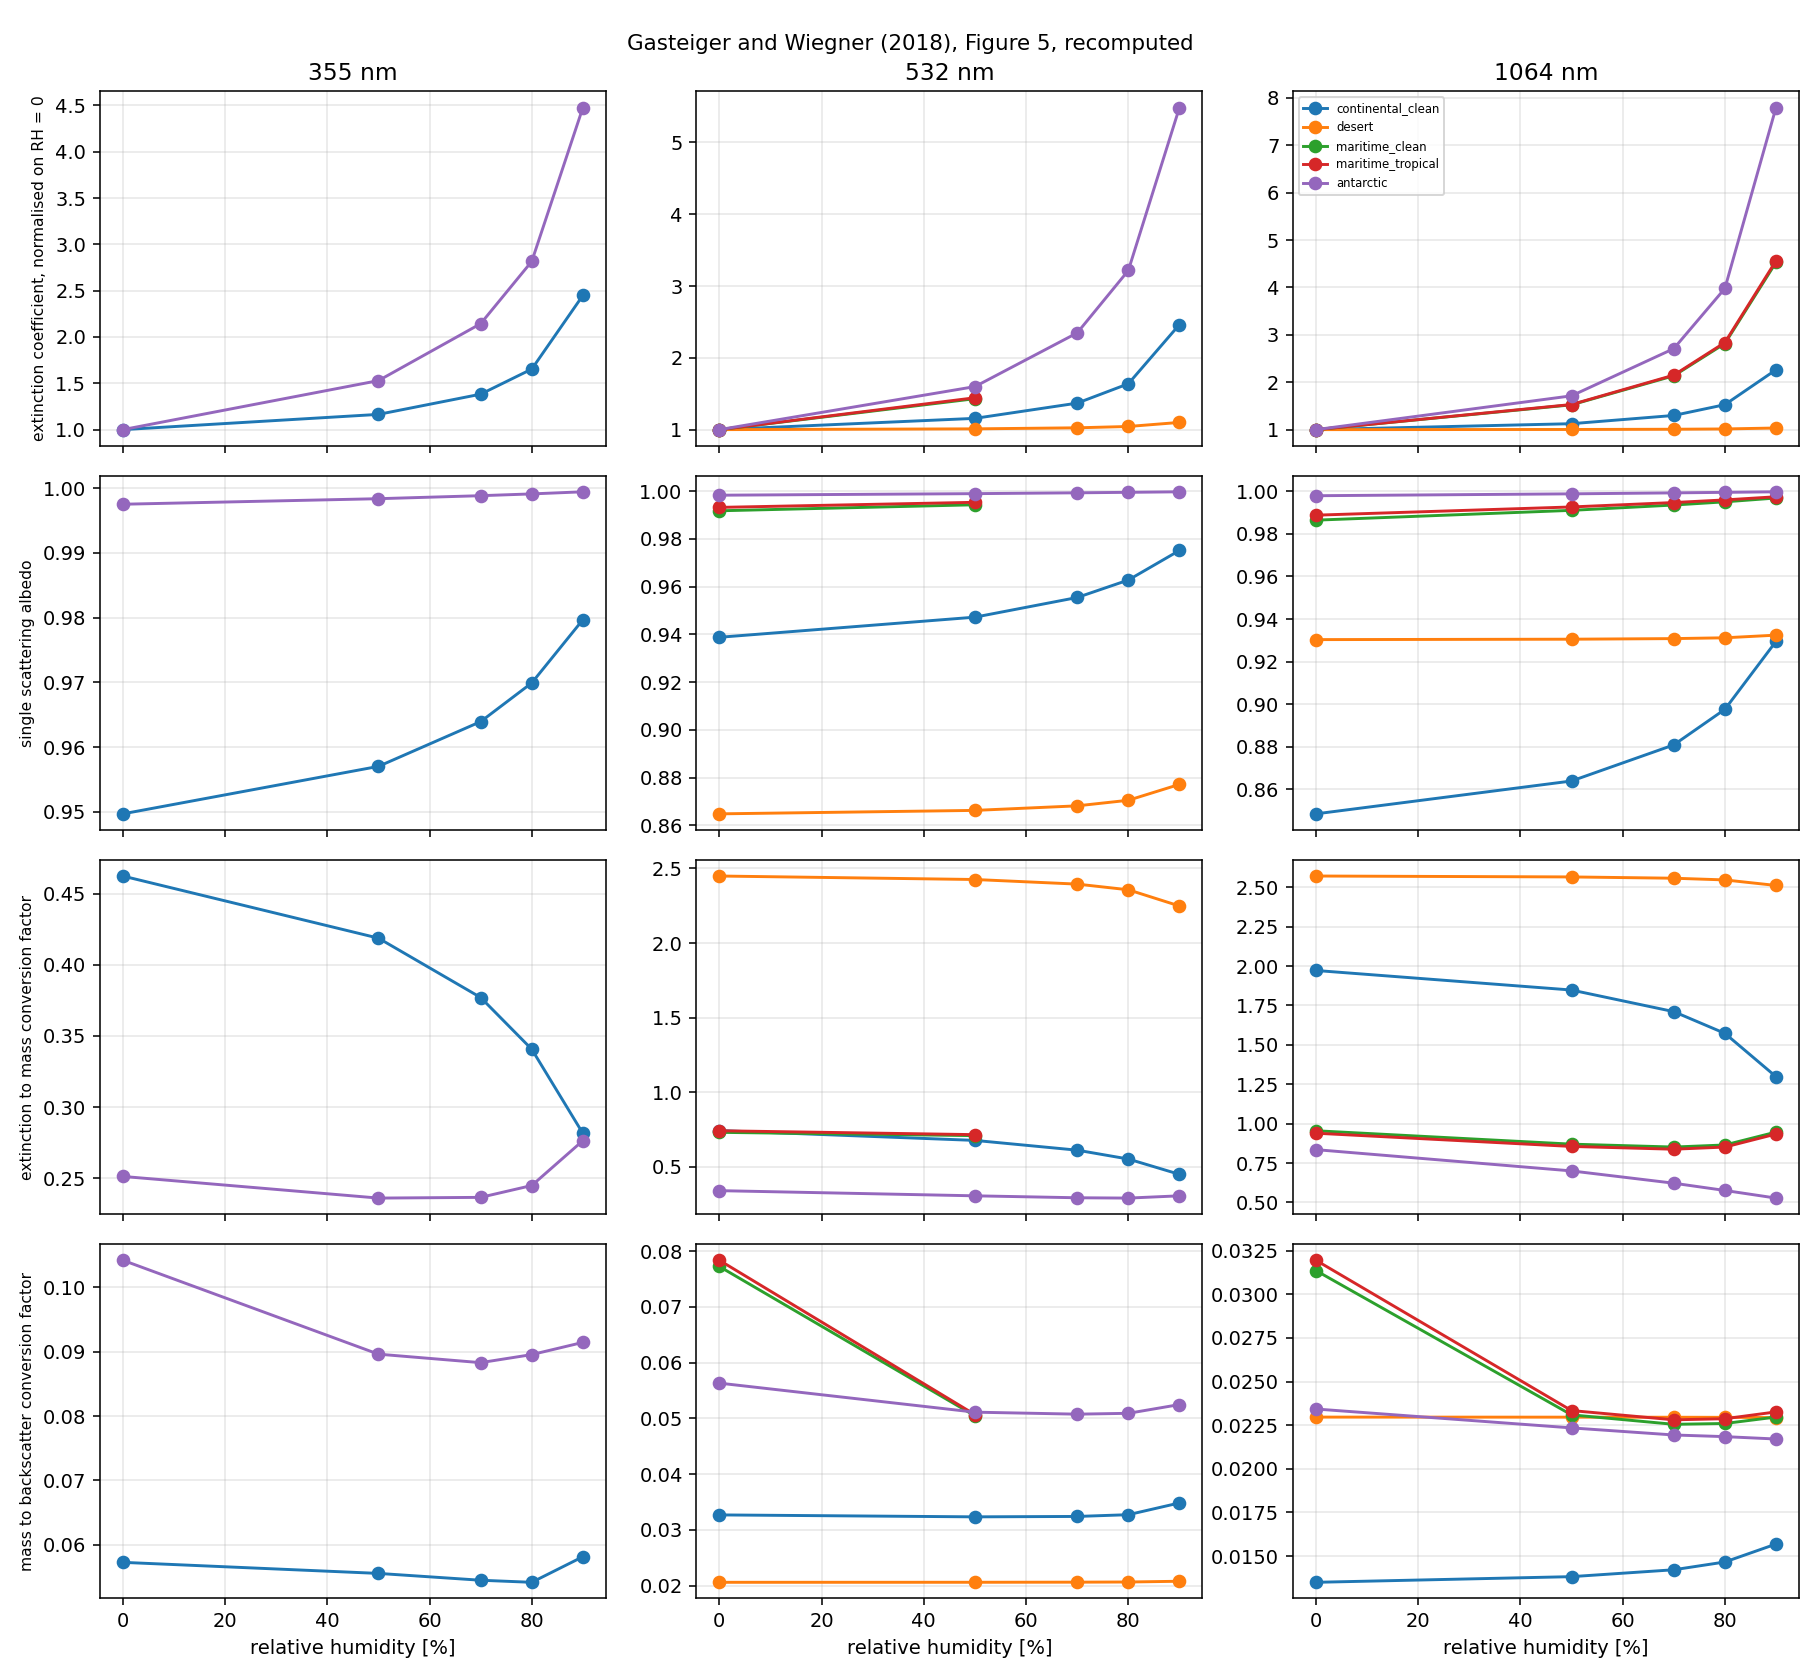
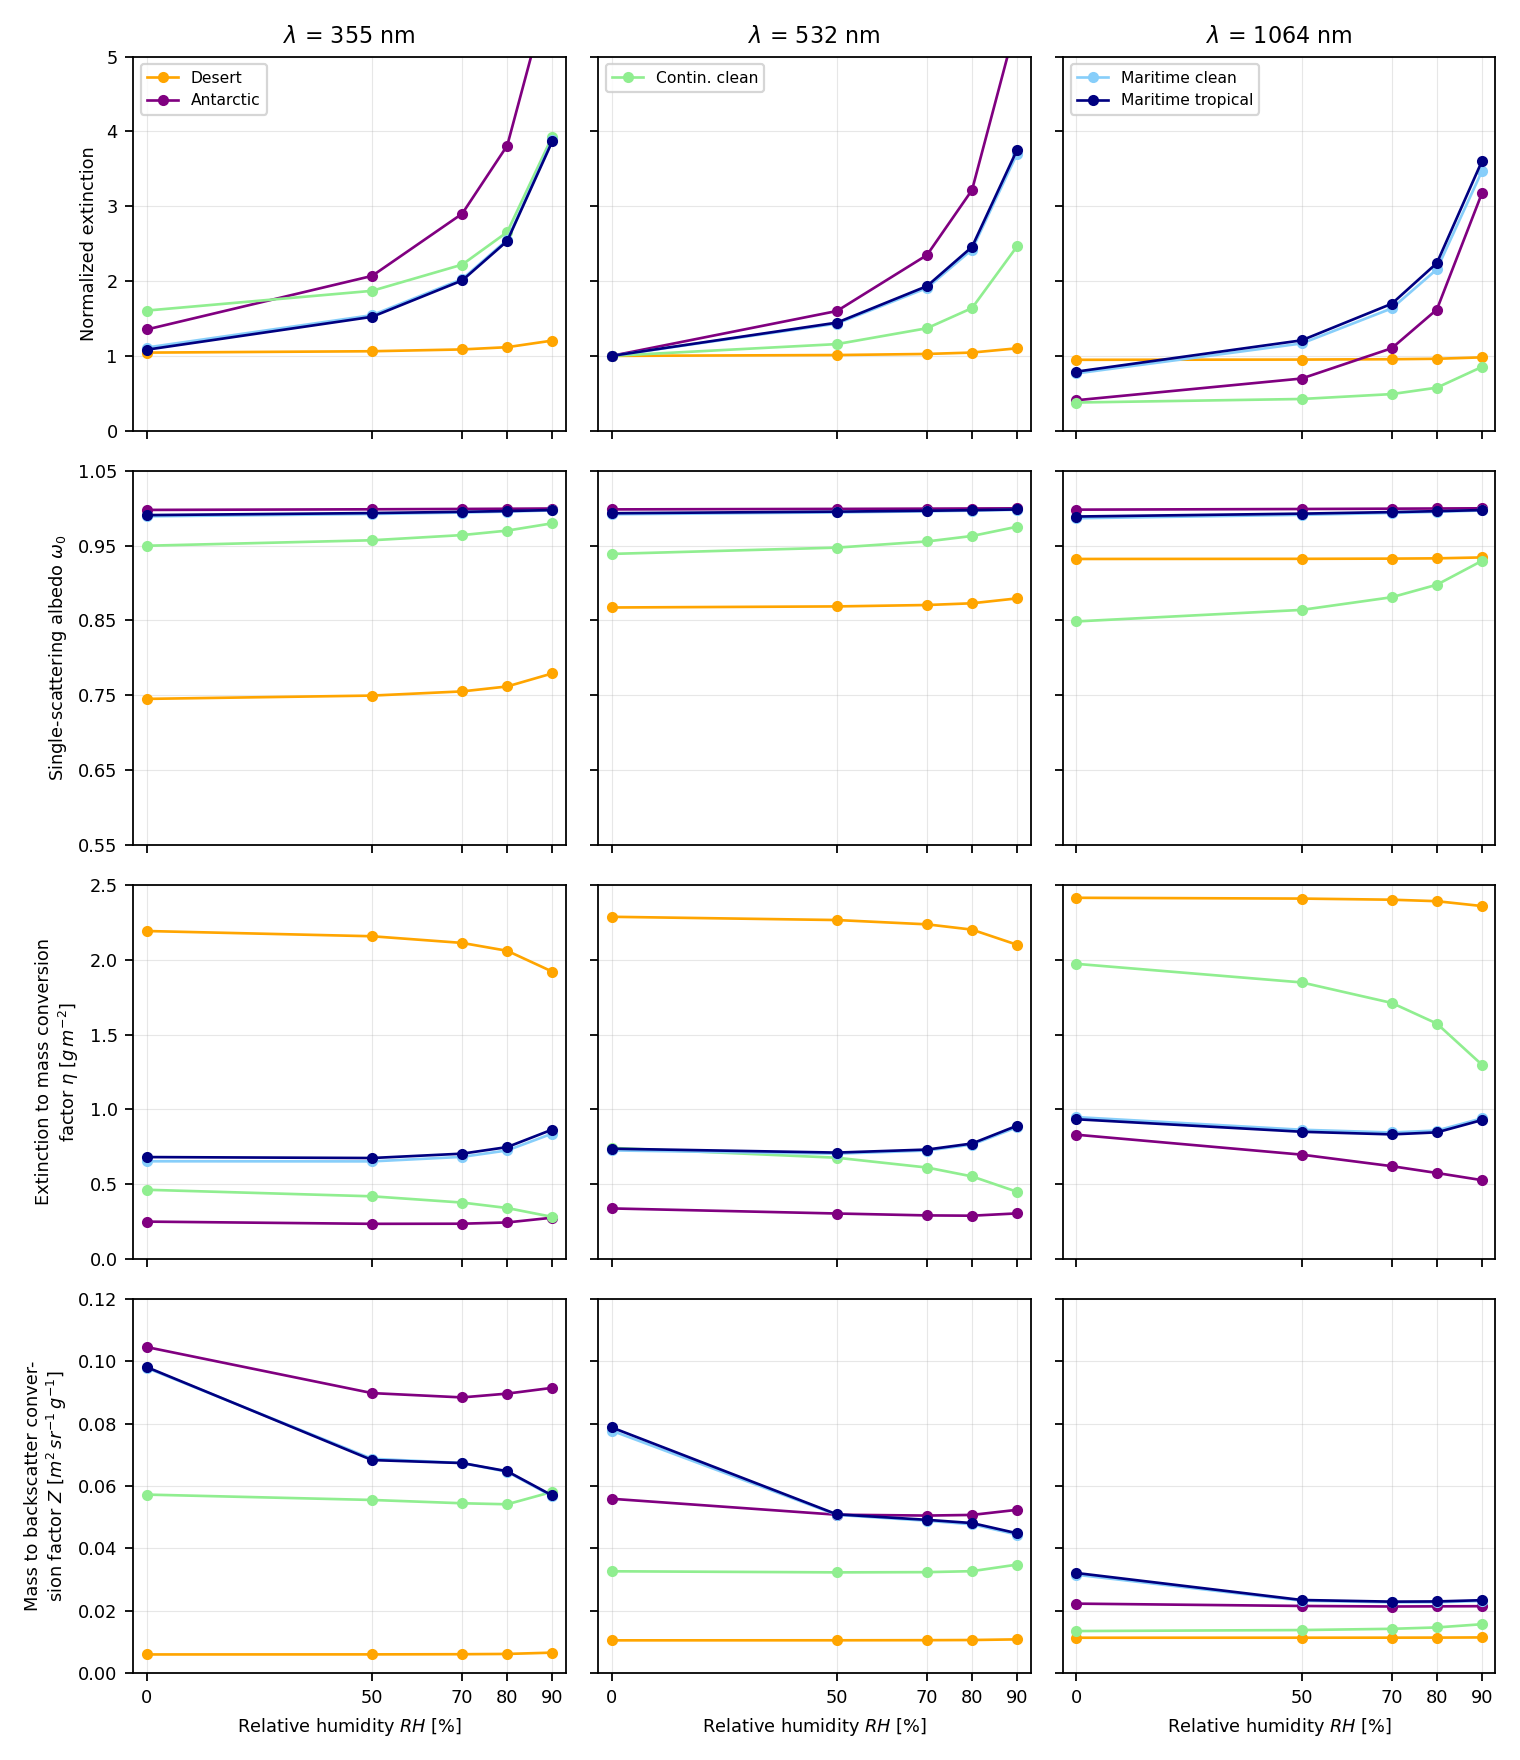
feat: draw Figure 5 in the layout of the published one
Same panel grid, axis limits, ticks and colours, the legend split over the top
row as the article splits it. The extinction was also normalised per
wavelength where the article normalises every column on 532 nm.

diff --git a/scripts/validation/gasteiger_fig5.py b/scripts/validation/gasteiger_fig5.py
@@ -1,30 +1,29 @@
 """
 Reproduce Figure 5 of Gasteiger and Wiegner (2018), GMD 11:2739.
 
-    pixi run -e dev python -m scripts.validation.gasteiger_fig5
+    PYMOPSMAP_DATASET_SOURCE=... \
+        pixi run -e dev python -m scripts.validation.gasteiger_fig5
 
 "Properties of OPAC aerosol types as a function of relative humidity RH
 calculated with the kappa parameterization (Zieger et al., 2013) implemented in
 MOPSMAP": the ten OPAC climatologies, at three lidar wavelengths, over five
-humidities, in four panels.
+humidities, in four rows.
 
-The figure is a validation target rather than a plot: what matters is whether
-the pipeline lands on the published curves. Types whose components fall outside
-the optical dataset at hand are reported and skipped, so a partial dataset
-still produces a partial figure.
+The layout follows the published one so the two can be laid side by side: same
+panel grid, same axis limits and ticks, same colour per type, and the legend
+split over the three panels of the top row the way the article splits it.
 
 Two gaps are structural rather than accidental, and the report names them:
 
-- the five types containing soot need the extended archive of the optical
-  data set, soot reaching a real refractive index of 1.75;
+- the five types containing soot need the extended archive of the optical data
+  set, soot reaching a real refractive index of 1.75;
 - the sea salt coarse mode of OPAC runs to rmax = 60 um, which the growth
   factor at RH >= 70 % pushes past the largest size parameter the data set
-  covers. MOPSMAP itself stops there (add_contribution.f90, "Maximum
-  specified particle size ... is not covered"), so those points are NaN.
+  covers. MOPSMAP itself stops there (add_contribution.f90, "Maximum specified
+  particle size ... is not covered"), so those points are NaN.
 
-The article plots them, which means its own runs used a smaller cutoff than
-the OPAC value. It does not say which, so they are left out rather than
-guessed at.
+The article plots them, which means its own runs used a smaller cutoff than the
+OPAC value. It does not say which, so they are left out rather than guessed at.
 """
 
 from __future__ import annotations
@@ -43,16 +42,47 @@ FIGURES = Path(__file__).resolve().parents[2] / "docs" / "figures"
 WAVELENGTHS_UM = [0.355, 0.532, 1.064]
 HUMIDITIES = [0.0, 50.0, 70.0, 80.0, 90.0]
 
-# The four rows of the figure. The extinction is shown normalised on its dry
-# value, which is what makes the ten types comparable on one panel.
-PANELS = {
-    "kext": "extinction coefficient, normalised on RH = 0",
-    "ssa": "single scattering albedo",
-    "ext_to_mass": "extinction to mass conversion factor",
-    "back_to_mass": "mass to backscatter conversion factor",
-}
+# The wavelength every extinction coefficient is normalised on: "the extinction
+# coefficient normalized to the extinction coefficient of the same aerosol type
+# at RH = 0 % and lambda = 532 nm". One reference for all three columns, which
+# is why the 1064 nm panel does not start at one.
+REFERENCE_WL_UM = 0.532
 
 OUTPUTS = frozenset({pm.OutputType.INTEGRATED, pm.OutputType.LIDAR})
+
+# The four rows: variable, axis label, limits, tick step.
+ROWS = [
+    ("kext", "Normalized extinction", (0.0, 5.0), 1.0),
+    ("ssa", "Single-scattering albedo $\\omega_0$", (0.55, 1.005), 0.1),
+    (
+        "ext_to_mass",
+        "Extinction to mass conversion\nfactor $\\eta$ [$g\\,m^{-2}$]",
+        (0.0, 2.5),
+        0.5,
+    ),
+    (
+        "back_to_mass",
+        "Mass to backscatter conver-\nsion factor $Z$"
+        " [$m^2\\,sr^{-1}\\,g^{-1}$]",
+        (0.0, 0.12),
+        0.02,
+    ),
+]
+
+# The colours of the published legend, and which top-row panel carries each
+# group of entries.
+TYPES = {
+    "urban": ("Urban", "black", 0),
+    "desert": ("Desert", "orange", 0),
+    "arctic": ("Arctic", "gold", 0),
+    "antarctic": ("Antarctic", "purple", 0),
+    "continental_clean": ("Contin. clean", "lightgreen", 1),
+    "continental_average": ("Contin. average", "forestgreen", 1),
+    "continental_polluted": ("Contin. polluted", "darkgreen", 1),
+    "maritime_clean": ("Maritime clean", "lightskyblue", 2),
+    "maritime_polluted": ("Maritime polluted", "blue", 2),
+    "maritime_tropical": ("Maritime tropical", "navy", 2),
+}
 
 
 def compute() -> xr.Dataset:
@@ -62,8 +92,8 @@ def compute() -> xr.Dataset:
     Returns
     -------
     xr.Dataset
-        Dimensions ``(type, rh, wl)``, with one variable per panel. Types the
-        dataset cannot cover are absent.
+        Dimensions ``(type, rh, wl)``, with one variable per row. Types the
+        data set cannot cover are absent.
     """
     per_type: dict[str, xr.Dataset] = {}
     for name in OPAC_COMPOSITIONS:
@@ -77,7 +107,7 @@ def compute() -> xr.Dataset:
         except (CoverageError, DomainError) as exc:
             print(f"  {name}: skipped, {exc}")
             continue
-        per_type[name] = _panels(result)
+        per_type[name] = _rows(result)
         print(f"  {name}: done")
 
     if not per_type:
@@ -90,16 +120,19 @@ def compute() -> xr.Dataset:
     )
 
 
-def _panels(result: xr.Dataset) -> xr.Dataset:
-    """Keep the four plotted quantities, extinction normalised on dry."""
-    panels = result[list(PANELS)]
-    return panels.assign(kext=panels["kext"] / panels["kext"].sel(rh=0.0))
+def _rows(result: xr.Dataset) -> xr.Dataset:
+    """Keep the four plotted quantities, extinction normalised."""
+    rows = result[[name for name, *_ in ROWS]]
+    reference = (
+        rows["kext"].sel(rh=0.0).sel(wl=REFERENCE_WL_UM, method="nearest")
+    )
+    return rows.assign(kext=rows["kext"] / reference)
 
 
 def report(data: xr.Dataset) -> None:
-    """Print the computed values, one block per panel."""
-    for name, label in PANELS.items():
-        print(f"\n=== {label} ===")
+    """Print the computed values, one block per row."""
+    for name, label, *_ in ROWS:
+        print(f"\n=== {label.replace(chr(10), ' ')}, at 532 nm ===")
         table = data[name].sel(wl=0.532, method="nearest").to_pandas()
         print(table.round(4).to_string())
     _check_statements(data)
@@ -118,9 +151,8 @@ def _check_statements(data: xr.Dataset) -> None:
     print(f"highest eta at RH = 0: {highest} ({float(eta.max()):.3f})")
     print("  article: 'the desert aerosol type ... shows the highest values'")
 
-    ssa = data["ssa"].sel(wl=0.532, method="nearest")
     if "desert" in data["type"]:
-        span = ssa.sel(type="desert")
+        span = data["ssa"].sel(wl=0.532, method="nearest").sel(type="desert")
         print(
             f"desert omega_0 over the humidity grid:"
             f" {float(span.min()):.4f} to {float(span.max()):.4f}"
@@ -129,36 +161,75 @@ def _check_statements(data: xr.Dataset) -> None:
 
 
 def plot(data: xr.Dataset, path: Path) -> None:
-    """Draw the four panels, one line per aerosol type."""
+    """Draw the figure in the layout of the published one."""
     import matplotlib.pyplot as plt
 
+    present = [name for name in TYPES if name in set(data["type"].values)]
+
     fig, axes = plt.subplots(
-        len(PANELS), len(WAVELENGTHS_UM), figsize=(13, 12), sharex=True
+        len(ROWS), len(WAVELENGTHS_UM), figsize=(9.5, 11), sharex=True
     )
-    for row, (name, label) in enumerate(PANELS.items()):
+    for row, (name, label, limits, step) in enumerate(ROWS):
         for column, wavelength in enumerate(WAVELENGTHS_UM):
             axis = axes[row, column]
-            for aerosol in data["type"].values:
-                series = (
+            for aerosol in present:
+                _, colour, _ = TYPES[aerosol]
+                axis.plot(
+                    data["rh"],
                     data[name]
                     .sel(type=aerosol)
-                    .sel(wl=wavelength, method="nearest")
+                    .sel(wl=wavelength, method="nearest"),
+                    marker="o",
+                    markersize=4,
+                    linewidth=1.2,
+                    color=colour,
+                    label=TYPES[aerosol][0],
                 )
-                axis.plot(data["rh"], series, marker="o", label=str(aerosol))
+            axis.set_ylim(*limits)
+            axis.set_yticks(
+                np.round(np.arange(limits[0], limits[1] + step / 2, step), 3)
+            )
+            axis.set_xlim(-3.0, 93.0)
+            axis.set_xticks(HUMIDITIES)
+            axis.grid(alpha=0.3, linewidth=0.5)
+            axis.tick_params(labelsize=8)
             if row == 0:
-                axis.set_title(f"{wavelength * 1e3:.0f} nm")
+                axis.set_title(
+                    f"$\\lambda$ = {wavelength * 1e3:.0f} nm", fontsize=10
+                )
             if column == 0:
                 axis.set_ylabel(label, fontsize=8)
-            if row == len(PANELS) - 1:
-                axis.set_xlabel("relative humidity [%]")
-            axis.grid(alpha=0.3)
-    axes[0, -1].legend(fontsize=6, loc="upper left")
-    fig.suptitle(
-        "Gasteiger and Wiegner (2018), Figure 5, recomputed", fontsize=11
-    )
+            else:
+                axis.tick_params(labelleft=False)
+            if row == len(ROWS) - 1:
+                axis.set_xlabel("Relative humidity $RH$ [%]", fontsize=8)
+
+    _legends(axes[0], present)
     fig.tight_layout()
-    fig.savefig(path, dpi=140)
+    fig.savefig(path, dpi=160)
     print(f"\nwrote {path}")
+
+
+def _legends(top_row, present: list[str]) -> None:
+    """Split the legend over the three top panels, as the article does."""
+    from matplotlib.lines import Line2D
+
+    for column, axis in enumerate(top_row):
+        entries = [
+            Line2D(
+                [],
+                [],
+                color=TYPES[name][1],
+                marker="o",
+                markersize=4,
+                linewidth=1.2,
+                label=TYPES[name][0],
+            )
+            for name in present
+            if TYPES[name][2] == column
+        ]
+        if entries:
+            axis.legend(handles=entries, fontsize=7, loc="upper left")
 
 
 def main() -> None:
